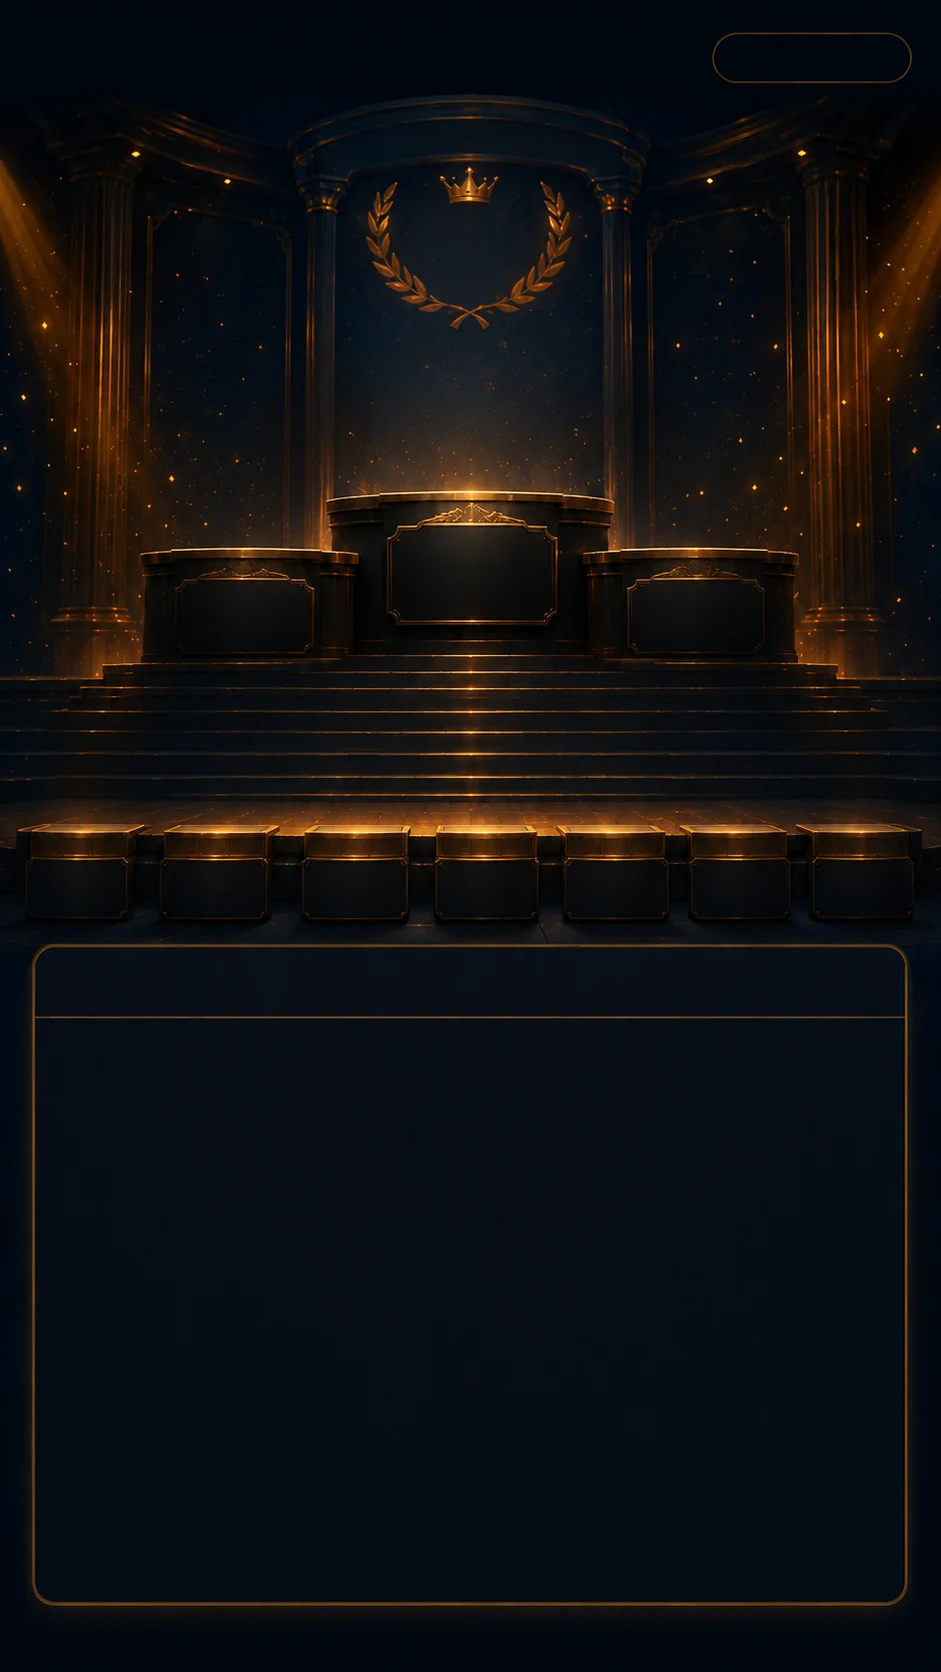
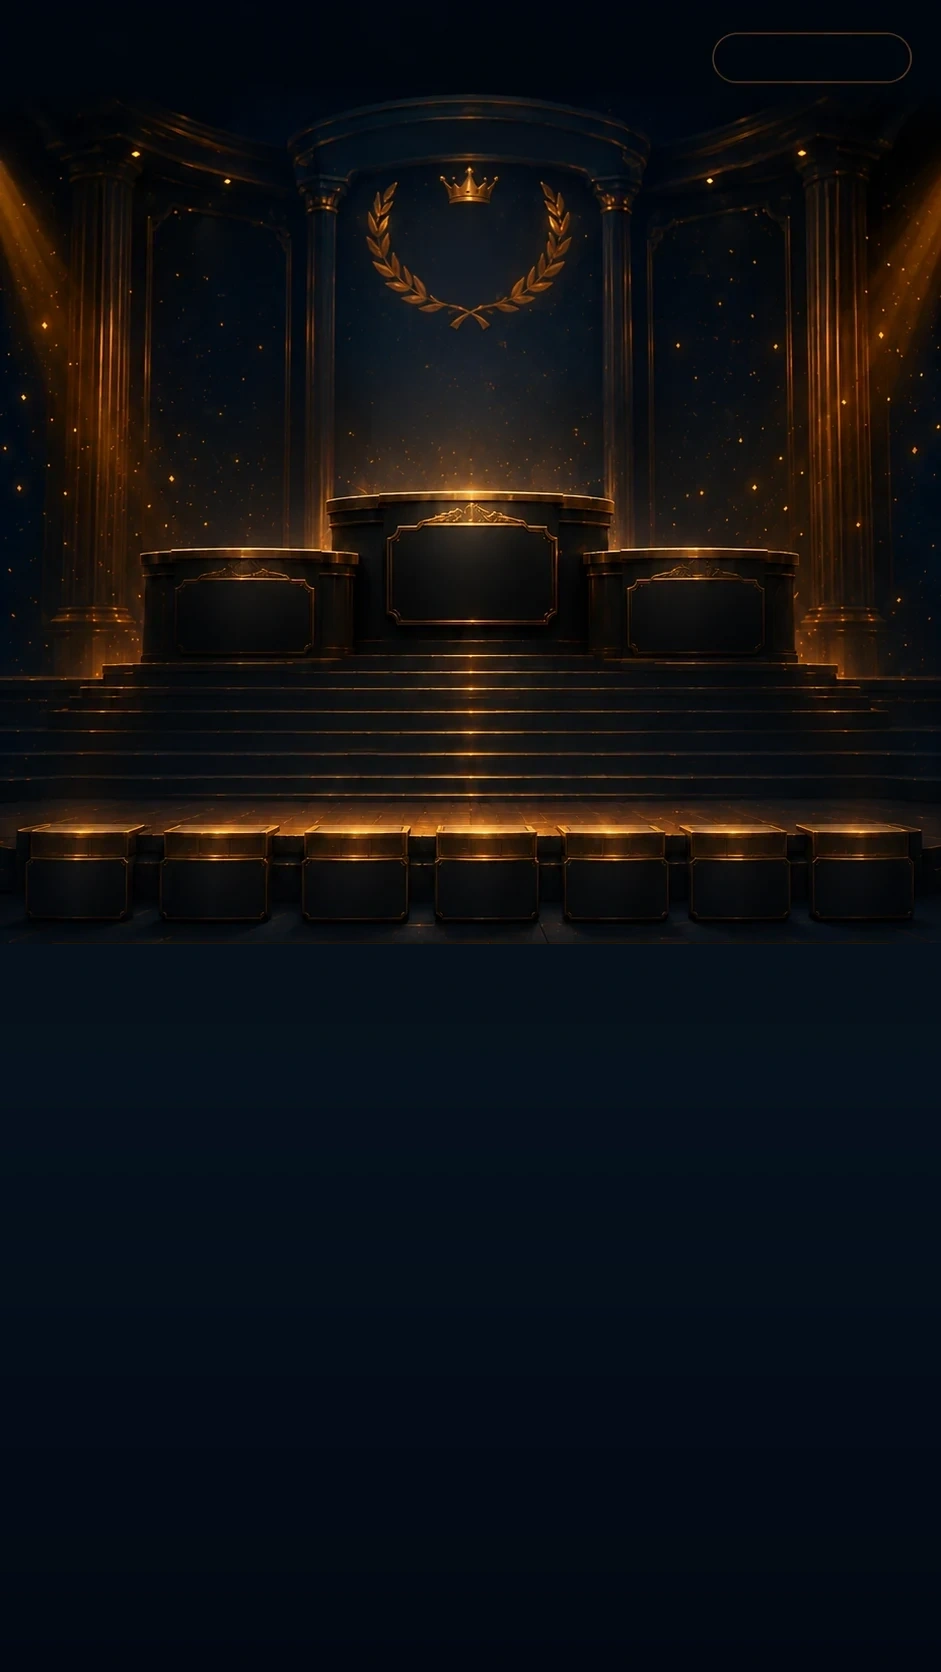
Fix summer rating podium labels and background

Changed region(s): [[0.0308, 0.5598, 0.0616, 0.9641], [0.9554, 0.5909, 0.9862, 0.9641]]

diff --git a/styles-rating-late.css b/styles-rating-late.css
@@ -2113,7 +2113,7 @@ body[data-view="summer-rating"] .view--active[data-view="summer-rating"] {
   width: 100%;
   background:
     linear-gradient(180deg, rgba(1, 5, 12, 0.08), rgba(1, 5, 12, 0.38)),
-    url("./assets/summer-rating-stage-bg.webp") center top / max(430px, 100%) auto no-repeat,
+    url("./assets/summer-rating-stage-bg.webp?v=2") center top / max(430px, 100%) auto no-repeat,
     radial-gradient(ellipse at -18% 31%, rgba(247, 178, 58, 0.18), transparent 32%),
     radial-gradient(ellipse at 118% 32%, rgba(247, 178, 58, 0.16), transparent 32%),
     radial-gradient(ellipse at 50% 18%, rgba(11, 42, 73, 0.56), transparent 48%),
@@ -2703,22 +2703,23 @@ body[data-view="summer-rating"] .view--active[data-view="summer-rating"] > .bonu
 }
 
 .winter-rating.spring-rating.summer-rating {
+  --summer-rating-stage-bg-height: max(844px, 100svh);
   position: relative;
   width: min(430px, 100%);
   max-width: 430px;
-  min-height: max(844px, 100svh);
+  min-height: var(--summer-rating-stage-bg-height);
   margin: 0 auto;
   padding: 16px 14px 30px;
   overflow: hidden;
   border: 0;
   border-radius: 0;
-  background: url("./assets/summer-rating-stage-bg.webp?v=1") center top / 100% 100% no-repeat !important;
+  background: url("./assets/summer-rating-stage-bg.webp?v=2") center top / 100% var(--summer-rating-stage-bg-height) no-repeat !important;
   box-shadow: none;
 }
 
 @supports (height: 100dvh) {
   .winter-rating.spring-rating.summer-rating {
-    min-height: max(844px, 100dvh);
+    --summer-rating-stage-bg-height: max(844px, 100dvh);
   }
 }
 
@@ -3292,6 +3293,46 @@ body[data-view="summer-rating"] .winter-rating.spring-rating .winter-rating__tit
   transform: translate(-3px, -43px);
 }
 
+/* Летний топ-3: цифры и ники закреплены на лицевой стороне каждого пьедестала. */
+.winter-rating.spring-rating.summer-rating #springRatingTop3PodiumLeague1 .spring-rating-top3__card,
+.winter-rating.spring-rating.summer-rating #springRatingTop3PodiumLeague2 .spring-rating-top3__card {
+  overflow: visible;
+}
+
+.winter-rating.spring-rating.summer-rating #springRatingTop3PodiumLeague1 .spring-rating-top3__rank,
+.winter-rating.spring-rating.summer-rating #springRatingTop3PodiumLeague2 .spring-rating-top3__rank {
+  top: 6px;
+  left: 50%;
+  transform: translateX(-50%);
+}
+
+.winter-rating.spring-rating.summer-rating #springRatingTop3PodiumLeague1 .spring-rating-top3__card:nth-child(2) .spring-rating-top3__rank,
+.winter-rating.spring-rating.summer-rating #springRatingTop3PodiumLeague2 .spring-rating-top3__card:nth-child(2) .spring-rating-top3__rank {
+  top: 2px;
+}
+
+.winter-rating.spring-rating.summer-rating #springRatingTop3PodiumLeague1 .spring-rating-top3__card:nth-child(3) .spring-rating-top3__rank,
+.winter-rating.spring-rating.summer-rating #springRatingTop3PodiumLeague2 .spring-rating-top3__card:nth-child(3) .spring-rating-top3__rank {
+  top: 6px;
+  left: 50%;
+}
+
+.winter-rating.spring-rating.summer-rating #springRatingTop3PodiumLeague1 .spring-rating-top3__nick,
+.winter-rating.spring-rating.summer-rating #springRatingTop3PodiumLeague2 .spring-rating-top3__nick {
+  position: absolute;
+  left: 4px;
+  right: 4px;
+  top: 34px;
+  width: auto;
+  max-width: none;
+  transform: none !important;
+}
+
+.winter-rating.spring-rating.summer-rating #springRatingTop3PodiumLeague1 .spring-rating-top3__card:nth-child(2) .spring-rating-top3__nick,
+.winter-rating.spring-rating.summer-rating #springRatingTop3PodiumLeague2 .spring-rating-top3__card:nth-child(2) .spring-rating-top3__nick {
+  top: 37px;
+}
+
 .winter-rating.spring-rating.summer-rating .spring-rating-top3__stats {
   color: #ffe6ad;
   font-size: clamp(6.9px, 1.86vw, 8px);
@@ -3332,13 +3373,13 @@ body[data-view="summer-rating"] .winter-rating.spring-rating .winter-rating__tit
   display: none;
 }
 
-/* Летний топ-4..топ-10: подставки на фоне держат персонажей; ники идут под ногами с зазором 7px, таблица начинается ниже ников. */
+/* Летний топ-4..топ-10: подставки на фоне держат персонажей; ники закреплены на лицевой стороне подставок, таблица начинается ниже ников. */
 .winter-rating.spring-rating.summer-rating #winterRatingLeague1PedestalWrap {
   order: 2;
   display: block !important;
   position: relative;
   width: 100%;
-  height: 140px;
+  height: 154px;
   margin: 2px 0 32px;
   overflow: visible;
   padding: 0;
@@ -3368,7 +3409,7 @@ body[data-view="summer-rating"] .winter-rating.spring-rating .winter-rating__tit
 
 .winter-rating.spring-rating.summer-rating .summer-rating-pedestal-label {
   position: absolute;
-  top: 149px;
+  top: 158px;
   display: block;
   min-width: 0;
   overflow: hidden;
@@ -3479,7 +3520,7 @@ body[data-view="summer-rating"] .winter-rating.spring-rating .winter-rating__tit
   display: block !important;
   position: relative;
   width: 100%;
-  height: 140px;
+  height: 154px;
   margin: 2px 0 32px;
   overflow: visible;
   padding: 0;
@@ -3604,10 +3645,9 @@ body[data-view="summer-rating"] .winter-rating.spring-rating .winter-rating__tit
   order: 3;
   width: 100%;
   margin: 0;
-  border-color: rgba(191, 121, 27, 0.82);
-  border-radius: 18px;
-  background:
-    linear-gradient(180deg, rgba(3, 9, 17, 0.68), rgba(3, 9, 17, 0.72));
+  border: 0;
+  border-radius: 0;
+  background: transparent;
   box-shadow: none;
 }
 
@@ -3881,7 +3921,7 @@ body[data-view="summer-rating"] .winter-rating.spring-rating .winter-rating__tit
   }
 
   .winter-rating.spring-rating.summer-rating .summer-rating-pedestal-label {
-    top: 157px;
+    top: 166px;
   }
 
   .winter-rating.spring-rating.summer-rating .summer-rating-pedestal-hitbox {
